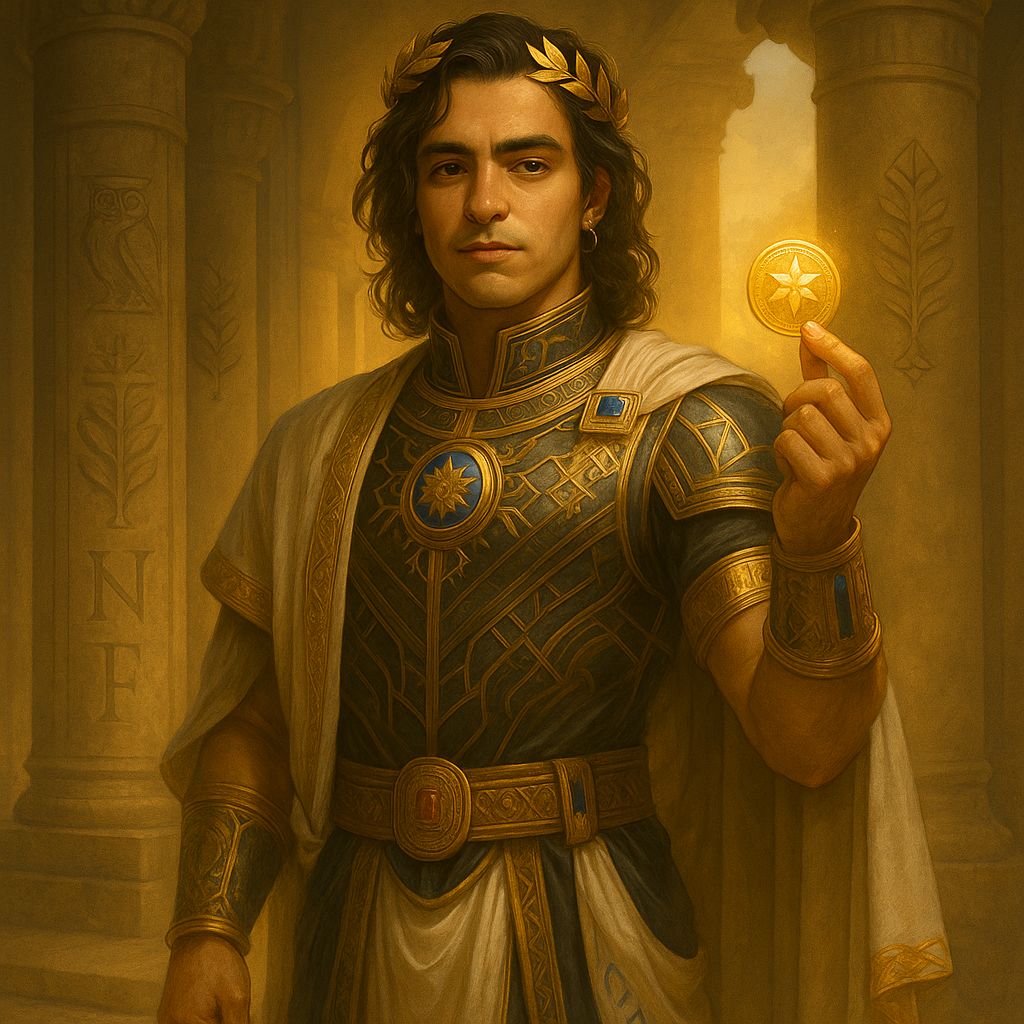
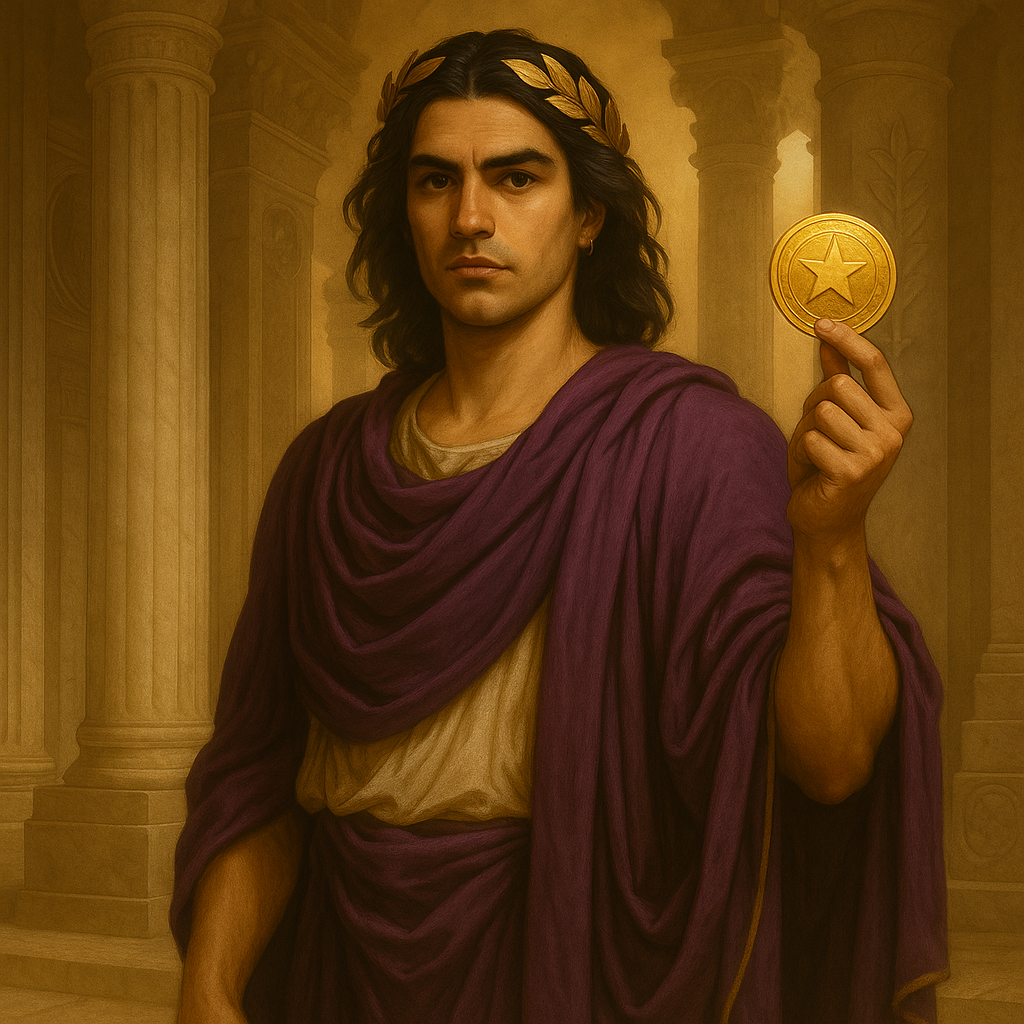
adcionado o botao de contato na imagem de kevin sallen

diff --git a/index.html b/index.html
@@ -40,7 +40,7 @@
 
     <div class="comando-container">
     <div class="comando">
-        <a href="comando/gerente-executivo.html">
+        <a href="https://wa.me/qr/UJZFMAKZLBV5F1" target="_blank">
             <img src="src/imagens/kevin.jpg" alt="Gerente Executivo">
         </a>
         <h2>kevin</h2>
@@ -48,7 +48,7 @@
     </div>
 
     <div class="comando">
-        <a href="comando/diretor-criativo.html">
+        <a href="comando/diretor-criativo.html" target="_blank">
             <img src="src/imagens/rafael.jpeg" alt="Diretor Criativo">
         </a>
         <h2>Lorakash</h2>
